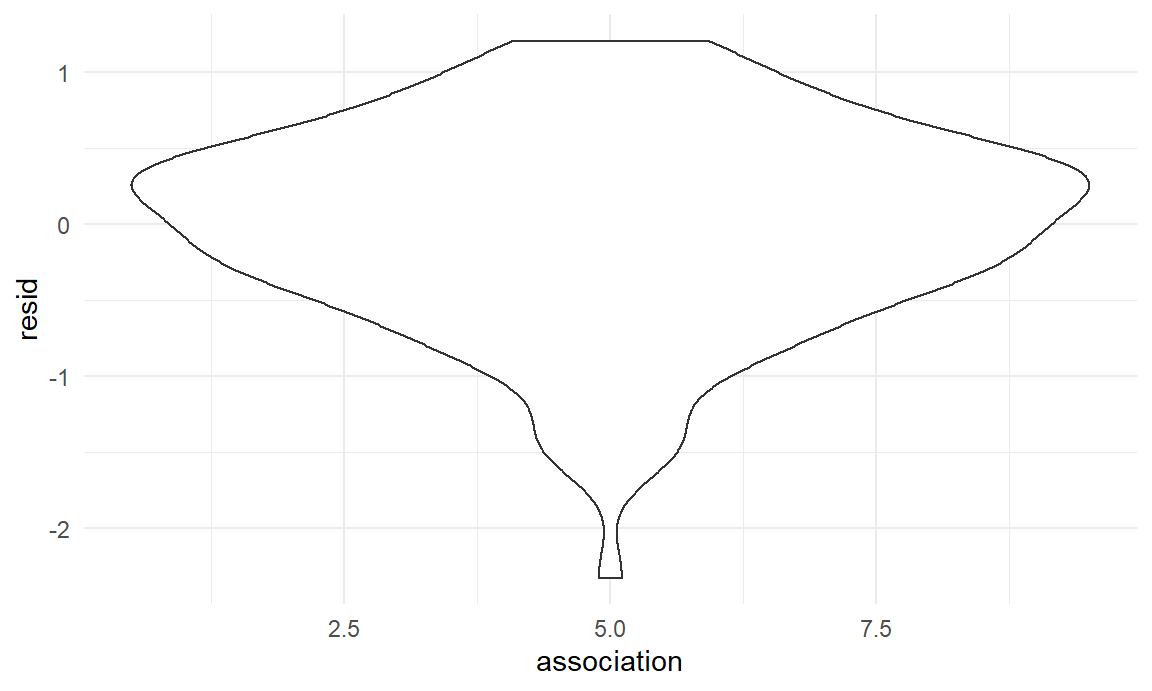
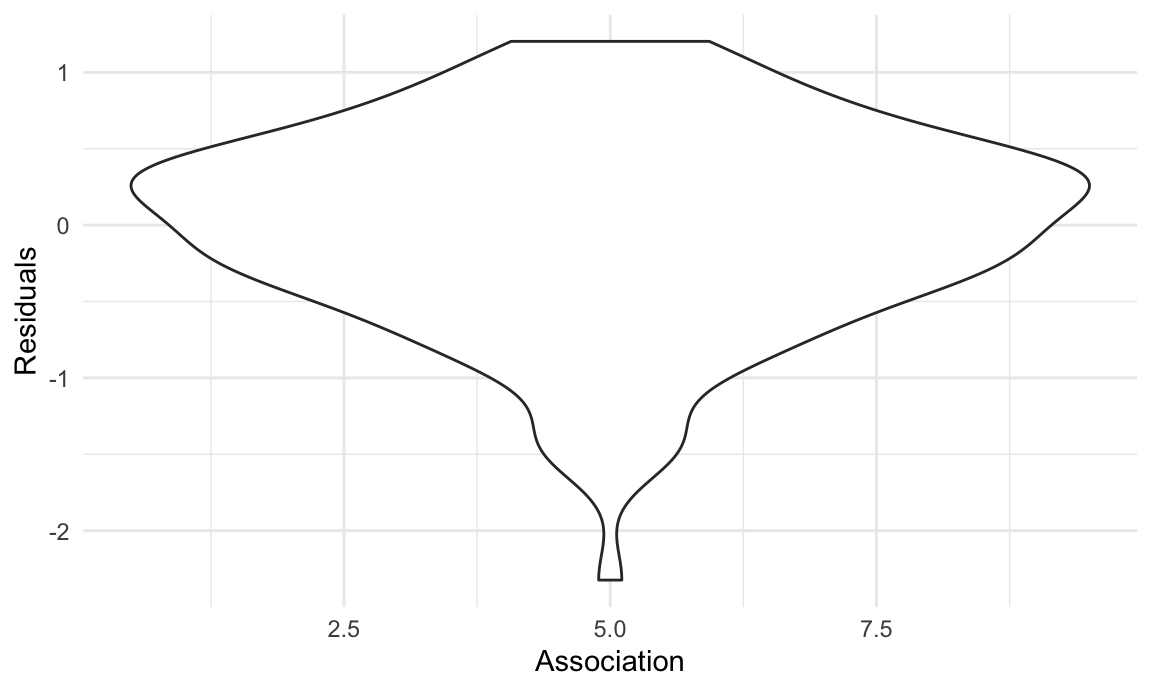
Added x and y axis labels to all Linear Analysis plots

diff --git a/Linear-Analysis.html b/Linear-Analysis.html
@@ -414,7 +414,9 @@ div.tocify {
 merged_df %&gt;% 
 ggplot(aes(x=happiness_score, y = human_freedom_score)) +
   geom_point() +
-  stat_smooth(method = &quot;lm&quot;)
+  stat_smooth(method = &quot;lm&quot;)+
+  xlab(&quot;Happiness Score&quot;)+
+  ylab(&quot;Human Freedom Score&quot;)
 scatter_plot</code></pre>
 <p><img src="Linear-Analysis_files/figure-html/unnamed-chunk-2-1.png" width="90%" /></p>
 <p>The above plot suggests a mostly positive, linear relationship between happiness score and freedom score.</p>
@@ -422,11 +424,13 @@ scatter_plot</code></pre>
 <pre class="r"><code>box_plot1 =
   merged_df %&gt;% 
   ggplot(aes(y = happiness_score)) +
-  geom_boxplot()
+  geom_boxplot()+
+  ylab(&quot;Happiness Score&quot;)
 box_plot2 =
   merged_df %&gt;% 
   ggplot(aes(y = human_freedom_score)) +
-  geom_boxplot()
+  geom_boxplot()+
+  ylab(&quot;Human Freedom Score&quot;)
 box_plot1 + box_plot2</code></pre>
 <p><img src="Linear-Analysis_files/figure-html/unnamed-chunk-3-1.png" width="90%" /></p>
 <p>Looks like maybe one outlier for freedom score.</p>
@@ -434,11 +438,15 @@ box_plot1 + box_plot2</code></pre>
 <pre class="r"><code>den_plot1 =
   merged_df %&gt;% 
   ggplot(aes(x = happiness_score)) +
-  geom_density(fill=&quot;#69b3a2&quot;, color=&quot;#e9ecef&quot;, alpha=0.8)
+  geom_density(fill=&quot;#69b3a2&quot;, color=&quot;#e9ecef&quot;, alpha=0.8)+
+  xlab(&quot;Happiness Score&quot;)+
+  ylab(&quot;Density&quot;)
 den_plot2 =
   merged_df %&gt;% 
   ggplot(aes(x = human_freedom_score)) +
-  geom_density(fill=&quot;#69b3a2&quot;, color=&quot;#e9ecef&quot;, alpha=0.8)
+  geom_density(fill=&quot;#69b3a2&quot;, color=&quot;#e9ecef&quot;, alpha=0.8)+
+  xlab(&quot;Human Freedom Score&quot;)+
+  ylab(&quot;Density&quot;)
 den_plot1 + den_plot2</code></pre>
 <p><img src="Linear-Analysis_files/figure-html/unnamed-chunk-4-1.png" width="90%" /> Ladder score looks mostly normal, HFI less so (large peak around HFI=6.5, smaller peak around HFI= 8.5)</p>
 <p>Checking correlation</p>
@@ -536,7 +544,9 @@ broom::tidy(linear_model) %&gt;%
 <pre class="r"><code>complete_df1 %&gt;% 
   modelr::add_residuals(linear_model) %&gt;% 
   ggplot(aes(x = human_freedom_score, y = resid)) + 
-  geom_violin()</code></pre>
+  geom_violin()+
+  xlab(&quot;Human Freedom Score&quot;)+
+  ylab(&quot;Residuals&quot;)</code></pre>
 <p><img src="Linear-Analysis_files/figure-html/unnamed-chunk-6-1.png" width="90%" /></p>
 <p>On average, for every one unit increase in freedom score, happiness increases by .68 units. The freedom score term does have a significant p-value, meaning we can reject the null hypothesis and say that there is a relationship between happiness and freedom. It also appears that the residuals are normally distributed.</p>
 </div>
@@ -585,16 +595,20 @@ broom::tidy(linear_model2) %&gt;%
 ##   r.squared adj.r.squared sigma statistic  p.value    df logLik   AIC   BIC
 ##       &lt;dbl&gt;         &lt;dbl&gt; &lt;dbl&gt;     &lt;dbl&gt;    &lt;dbl&gt; &lt;dbl&gt;  &lt;dbl&gt; &lt;dbl&gt; &lt;dbl&gt;
 ## 1     0.478         0.471 0.792      64.1 1.70e-20     2  -168.  344.  356.
-## # ... with 3 more variables: deviance &lt;dbl&gt;, df.residual &lt;int&gt;, nobs &lt;int&gt;</code></pre>
+## # … with 3 more variables: deviance &lt;dbl&gt;, df.residual &lt;int&gt;, nobs &lt;int&gt;</code></pre>
 <pre class="r"><code>complete_df2 %&gt;% 
   modelr::add_residuals(linear_model2) %&gt;% 
   ggplot(aes(x = personal_freedom_score, y = resid)) + 
-  geom_violin()</code></pre>
+  geom_violin()+
+  xlab(&quot;Personal Freedom Score&quot;)+
+  ylab(&quot;Residuals&quot;)</code></pre>
 <p><img src="Linear-Analysis_files/figure-html/unnamed-chunk-7-1.png" width="90%" /></p>
 <pre class="r"><code>complete_df2 %&gt;% 
   modelr::add_residuals(linear_model2) %&gt;% 
   ggplot(aes(x = economic_freedom_score, y = resid)) + 
-  geom_violin()</code></pre>
+  geom_violin()+
+  xlab(&quot;Economic Freedom Score&quot;)+
+  ylab(&quot;Residuals&quot;)</code></pre>
 <p><img src="Linear-Analysis_files/figure-html/unnamed-chunk-7-2.png" width="90%" /></p>
 <p>On average, for every one unit increase in personal freedom score, happiness increases by .41 units. For every one unit increase in economic freedom score, happiness increases by .23 units. Both freedom scores have a significant p-value, meaning we can reject the null hypothesis and say that there is a relationship between happiness and both economic and personal freedom.Interestingly, it seems that personal freedom is more influential on happiness than economic freedom. It also appears that the residuals are normally distributed.</p>
 </div>
@@ -675,46 +689,62 @@ broom::tidy(linear_model3) %&gt;%
 ##   r.squared adj.r.squared sigma statistic  p.value    df logLik   AIC   BIC
 ##       &lt;dbl&gt;         &lt;dbl&gt; &lt;dbl&gt;     &lt;dbl&gt;    &lt;dbl&gt; &lt;dbl&gt;  &lt;dbl&gt; &lt;dbl&gt; &lt;dbl&gt;
 ## 1     0.593         0.566 0.680      22.0 2.25e-20     8  -130.  279.  308.
-## # ... with 3 more variables: deviance &lt;dbl&gt;, df.residual &lt;int&gt;, nobs &lt;int&gt;</code></pre>
+## # … with 3 more variables: deviance &lt;dbl&gt;, df.residual &lt;int&gt;, nobs &lt;int&gt;</code></pre>
 <pre class="r"><code>complete_df3 %&gt;% 
   modelr::add_residuals(linear_model3) %&gt;% 
   ggplot(aes(x = assembly, y = resid)) + 
-  geom_violin()</code></pre>
+  geom_violin()+
+  xlab(&quot;Assembly&quot;)+
+  ylab(&quot;Residuals&quot;)</code></pre>
 <p><img src="Linear-Analysis_files/figure-html/unnamed-chunk-8-1.png" width="90%" /></p>
 <pre class="r"><code>complete_df3 %&gt;% 
   modelr::add_residuals(linear_model3) %&gt;% 
   ggplot(aes(x = religion, y = resid)) + 
-  geom_violin()</code></pre>
+  geom_violin()+
+  xlab(&quot;Religion&quot;)+
+  ylab(&quot;Residuals&quot;)</code></pre>
 <p><img src="Linear-Analysis_files/figure-html/unnamed-chunk-8-2.png" width="90%" /></p>
 <pre class="r"><code>complete_df3 %&gt;% 
   modelr::add_residuals(linear_model3) %&gt;% 
   ggplot(aes(x = association, y = resid)) + 
-  geom_violin()</code></pre>
+  geom_violin()+
+  xlab(&quot;Association&quot;)+
+  ylab(&quot;Residuals&quot;)</code></pre>
 <p><img src="Linear-Analysis_files/figure-html/unnamed-chunk-8-3.png" width="90%" /></p>
 <pre class="r"><code>complete_df3 %&gt;% 
   modelr::add_residuals(linear_model3) %&gt;% 
   ggplot(aes(x = movement, y = resid)) + 
-  geom_violin()</code></pre>
+  geom_violin()+
+  xlab(&quot;Movement&quot;)+
+  ylab(&quot;Residuals&quot;)</code></pre>
 <p><img src="Linear-Analysis_files/figure-html/unnamed-chunk-8-4.png" width="90%" /></p>
 <pre class="r"><code>complete_df3 %&gt;% 
   modelr::add_residuals(linear_model3) %&gt;% 
   ggplot(aes(x = inheritance_rights, y = resid)) + 
-  geom_violin()</code></pre>
+  geom_violin()+
+  xlab(&quot;Inheritance Rights&quot;)+
+  ylab(&quot;Residuals&quot;)</code></pre>
 <p><img src="Linear-Analysis_files/figure-html/unnamed-chunk-8-5.png" width="90%" /></p>
 <pre class="r"><code>complete_df3 %&gt;% 
   modelr::add_residuals(linear_model3) %&gt;% 
   ggplot(aes(x = disapperances_conflicts_and_terrorism, y = resid)) + 
-  geom_violin()</code></pre>
+  geom_violin()+
+  xlab(&quot;Disappearances, Conflicts, and Terrorism&quot;)+
+  ylab(&quot;Residuals&quot;)</code></pre>
 <p><img src="Linear-Analysis_files/figure-html/unnamed-chunk-8-6.png" width="90%" /></p>
 <pre class="r"><code>complete_df3 %&gt;% 
   modelr::add_residuals(linear_model3) %&gt;% 
   ggplot(aes(x = rule_of_law, y = resid)) + 
-  geom_violin()</code></pre>
+  geom_violin()+
+  xlab(&quot;Rule of Law&quot;)+
+  ylab(&quot;Residuals&quot;)</code></pre>
 <p><img src="Linear-Analysis_files/figure-html/unnamed-chunk-8-7.png" width="90%" /></p>
 <pre class="r"><code>complete_df3 %&gt;% 
   modelr::add_residuals(linear_model3) %&gt;% 
   ggplot(aes(x = homicide, y = resid)) + 
-  geom_violin()</code></pre>
+  geom_violin()+
+  xlab(&quot;Homicide&quot;)+
+  ylab(&quot;Residuals&quot;)</code></pre>
 <p><img src="Linear-Analysis_files/figure-html/unnamed-chunk-8-8.png" width="90%" /></p>
 <p>On average, for every one unit increase in rule of law freedom score, happiness increases by .45 units. For every one unit increase in homicide score, happiness decreases by .19 units. These were the only two terms with significant p-values, indicating that there is a relationship between rule of law and happiness, as well as homicide and happiness. However, it is worth noting that the disappearances, conflicts, and terrorism term was very close to the cutoff value of p &lt; .05.</p>
 <p>It also appears that the residuals are not as normally distributed as in previous models.</p>
